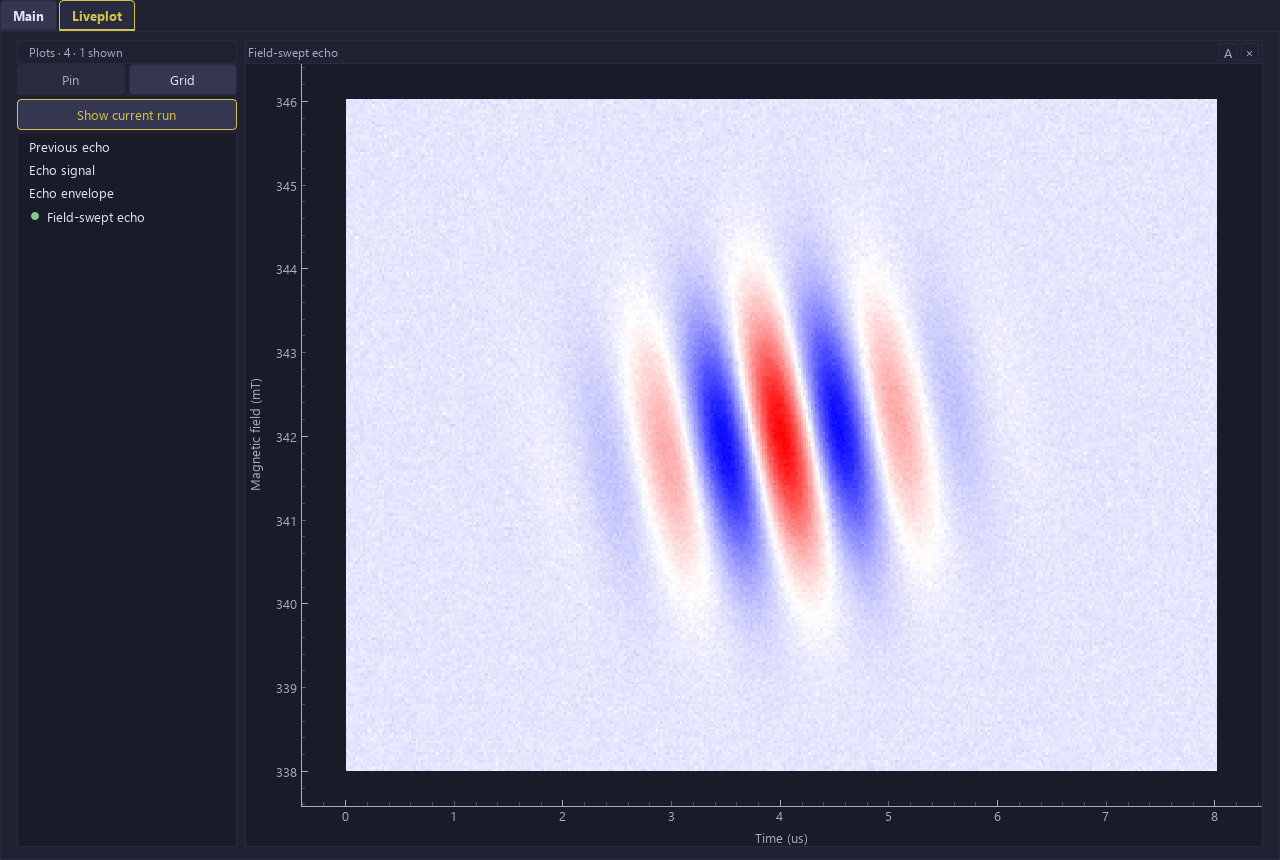
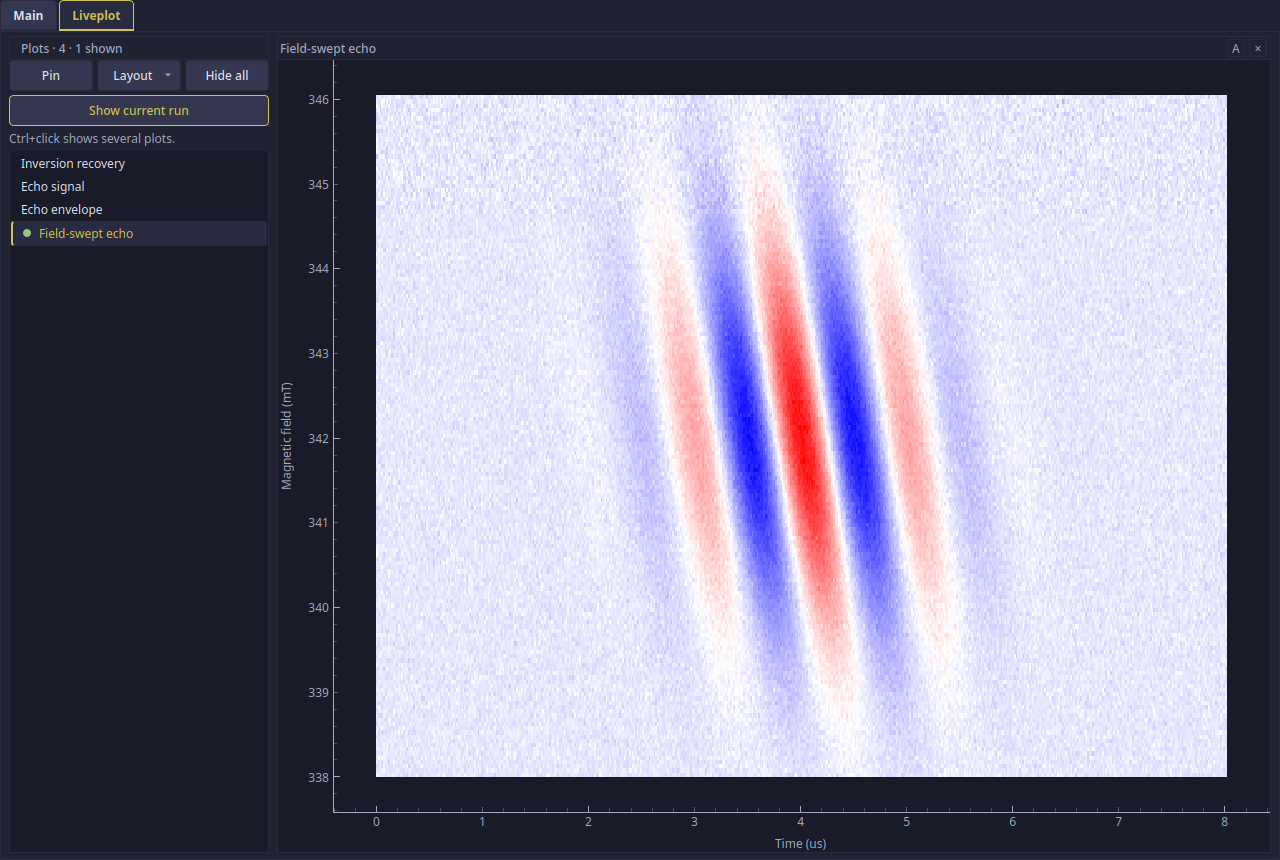
README: describe stations and refresh the screenshots
Replace the Atomize_ITC pointer with a Stations section: what a station
is, the itc/ and itc2/ folders of Atomize_stations with their commands,
the install commands, and one station per Python environment. Retake the
three screenshots from the current interface (Output panel, Layout,
Hide all) and add one of the ITC station's EPR Endstation Control tab.

diff --git a/readme.md b/readme.md
@@ -22,8 +22,7 @@ The idea follows [FSC2](http://users.physik.fu-berlin.de/~jtt/fsc2.phtml) by Jen
 - **Math modules** for fitting, FFT and phase correction, and signal processing.
 - **Test mode** runs any script end to end without hardware, validating the arguments on the way.
 - **Extendable.** A new instrument is one module plus one config file; see [writing modules](https://anatoly1010.github.io/atomize_docs/writing_modules/).
-
-An extended variant with a GUI control window for a pulsed EPR endstation lives in [Atomize_ITC](https://github.com/Anatoly1010/Atomize_ITC).
+- **Stations.** The parts that belong to one spectrometer (its control centers, extra instrument modules and their settings) are installed on top of Atomize as a station; see [Stations](#stations).
 
 ## Installation
 
@@ -49,6 +48,25 @@ pip install "atomize-py[serial,modbus,math]"
 Some instruments also need a vendor driver: [linux-gpib](https://linux-gpib.sourceforge.io/) for GPIB, [SpinAPI](http://www.spincore.com/support/spinapi/) for Pulse Blaster ESR 500 Pro, [Spcm](https://spectrum-instrumentation.com/en/m4i4450-x8) for Spectrum M4I cards. Full details are in the [requirements](https://anatoly1010.github.io/atomize_docs/requirements/).
 
 Atomize needs Python 3.10 or newer. It is used daily on several EPR spectrometers and has been tested on Ubuntu 18.04, 20.04 and 22.04 and on Windows 10.
+
+## Stations
+
+A station is a folder with one spectrometer's own files. It joins Atomize under the same `atomize` name, adds its own tabs to the main window and keeps its settings apart from plain Atomize. Stations live in [Atomize_stations](https://github.com/Anatoly1010/Atomize_stations); two EPR spectrometers run this way today:
+
+| Folder  | Spectrometer                       | Commands                   |
+| ------- | ---------------------------------- | -------------------------- |
+| `itc/`  | EPR endstation (pulsed, CW, TR)    | `atomize-itc`, `epr-auto`  |
+| `itc2/` | ITC2 CW / TR EPR spectrometer      | `atomize-itc2`, `epr-auto` |
+
+```bash
+git clone https://github.com/Anatoly1010/Atomize.git
+git clone https://github.com/Anatoly1010/Atomize_stations.git
+pip install -e "Atomize[serial,modbus,math,bots]"
+pip install -e Atomize_stations/itc
+atomize-itc
+```
+
+Install one station per Python environment. Details are in the [usage guide](https://anatoly1010.github.io/atomize_docs/usage/#stations).
 
 ## Configuration
 
@@ -125,3 +143,5 @@ The current interface shown with synthetic demonstration data.
 ![Liveplot showing two live 1D plots with Show current run active](screenshots/screenshot2.png)
 
 ![Liveplot showing a live 2D echo map and its green-dot indicator](screenshots/screenshot3.png)
+
+![The ITC station window with its EPR Endstation Control tab](screenshots/screenshot_station.png)
